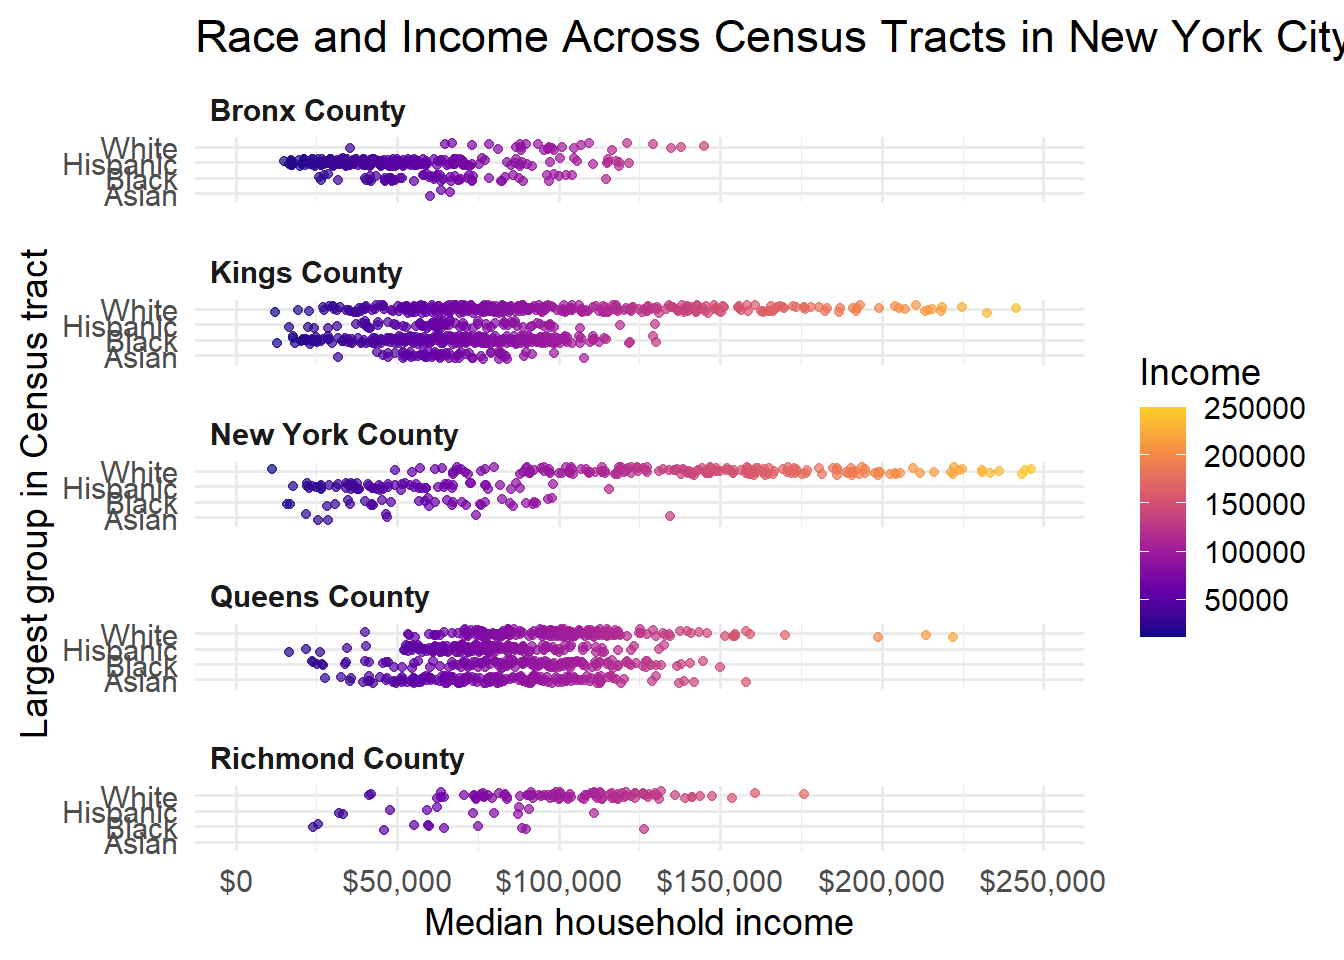
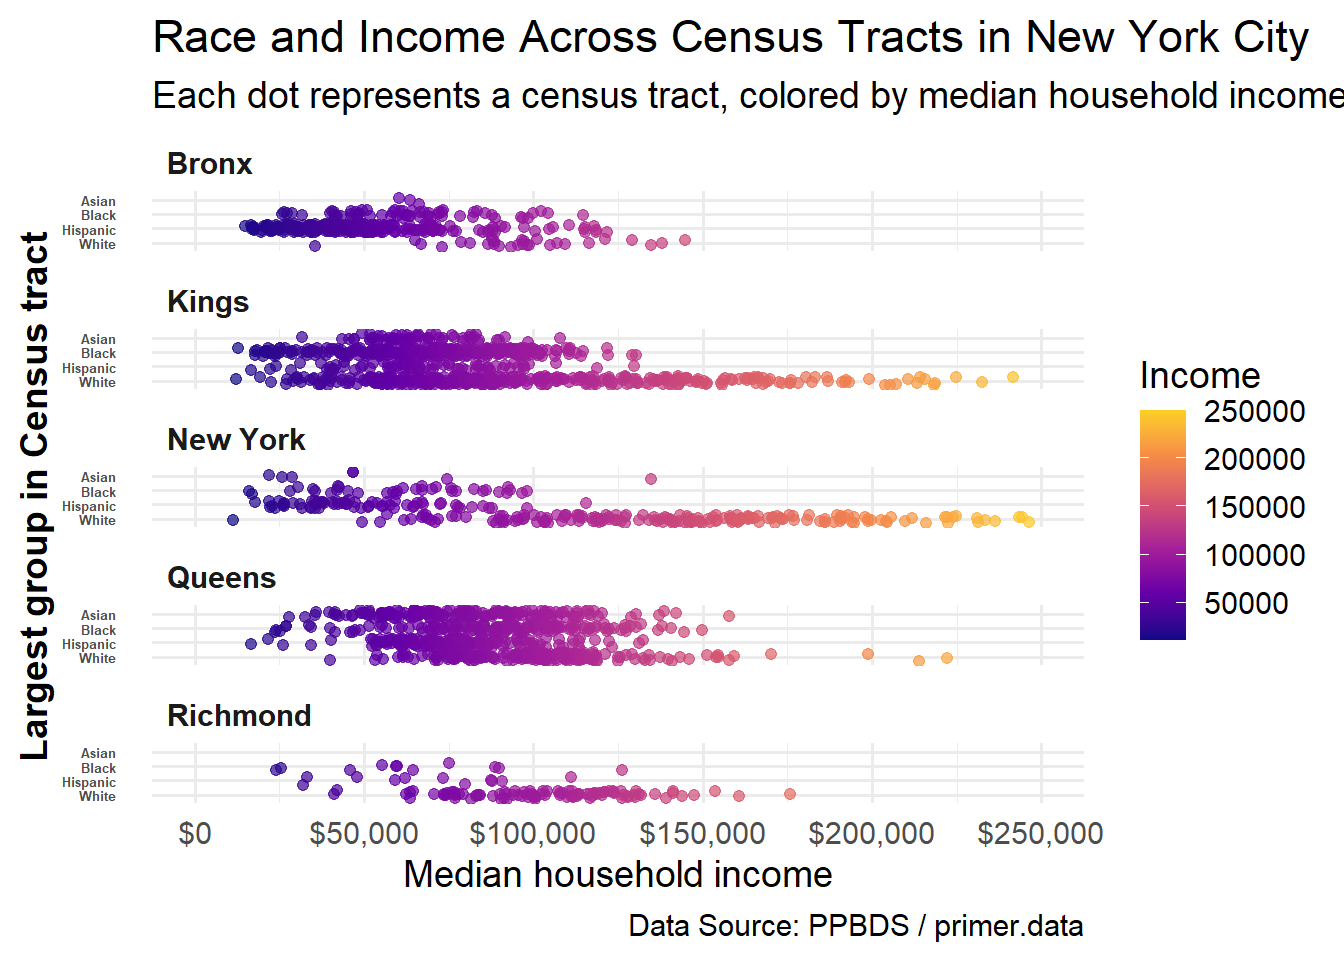
Built site for gh-pages

diff --git a/index.html b/index.html
@@ -134,30 +134,6 @@ ul.task-list li input[type="checkbox"] {
 
 
 <div class="cell">
-<div class="cell-output cell-output-stderr">
-<pre><code>── Attaching core tidyverse packages ──────────────────────── tidyverse 2.0.0 ──
-✔ dplyr     1.1.4     ✔ readr     2.1.5
-✔ forcats   1.0.0     ✔ stringr   1.5.1
-✔ ggplot2   3.5.2     ✔ tibble    3.3.0
-✔ lubridate 1.9.4     ✔ tidyr     1.3.1
-✔ purrr     1.0.4     
-── Conflicts ────────────────────────────────────────── tidyverse_conflicts() ──
-✖ dplyr::filter() masks stats::filter()
-✖ dplyr::lag()    masks stats::lag()
-ℹ Use the conflicted package (&lt;http://conflicted.r-lib.org/&gt;) to force all conflicts to become errors
-Rows: 2242 Columns: 3
-── Column specification ────────────────────────────────────────────────────────
-Delimiter: ","
-chr (2): tract, race
-dbl (1): med_income
-
-ℹ Use `spec()` to retrieve the full column specification for this data.
-ℹ Specify the column types or set `show_col_types = FALSE` to quiet this message.</code></pre>
-</div>
-<div class="cell-output cell-output-stderr">
-<pre><code>Warning: Removed 53 rows containing missing values or values outside the scale range
-(`geom_point()`).</code></pre>
-</div>
 <div class="cell-output-display">
 <div>
 <figure class="figure">
@@ -166,6 +142,7 @@ dbl (1): med_income
 </div>
 </div>
 </div>
+<p>This plot illustrates the relationship between median household income and the largest racial group across census tracts in New York City. Each point on the graph represents a single census tract, positioned along the x-axis according to its median income and along the y-axis by the racial or ethnic group that forms the largest share of that tract’s population (White, Hispanic, Black, or Asian). The points are colored on a gradient from dark purple to yellow, with brighter colors indicating higher income levels. The plot is divided into five vertical panels—one for each of the city’s boroughs (Bronx, Kings, New York, Queens, and Richmond). This faceted layout enables comparisons of racial-income distributions between boroughs. In general, the plot reveals that income varies significantly by both racial group and borough, with tracts where the majority group is White or Asian often associated with higher median incomes. The visual design highlights disparities and concentrations of wealth, offering insight into the socioeconomic landscape of New York City’s diverse neighborhoods.</p>
 
 
 
@@ -242,7 +219,7 @@ dbl (1): med_income
     }
       var localhostRegex = new RegExp(/^(?:http|https):\/\/localhost\:?[0-9]*\//);
       var mailtoRegex = new RegExp(/^mailto:/);
-        var filterRegex = new RegExp('/' + window.location.host + '/');
+        var filterRegex = new RegExp("https:\/\/numi1212\.github\.io\/website-4\/");
       var isInternal = (href) => {
           return filterRegex.test(href) || localhostRegex.test(href) || mailtoRegex.test(href);
       }

diff --git a/about.html b/about.html
@@ -210,7 +210,7 @@ ul.task-list li input[type="checkbox"] {
     }
       var localhostRegex = new RegExp(/^(?:http|https):\/\/localhost\:?[0-9]*\//);
       var mailtoRegex = new RegExp(/^mailto:/);
-        var filterRegex = new RegExp('/' + window.location.host + '/');
+        var filterRegex = new RegExp("https:\/\/numi1212\.github\.io\/website-4\/");
       var isInternal = (href) => {
           return filterRegex.test(href) || localhostRegex.test(href) || mailtoRegex.test(href);
       }
